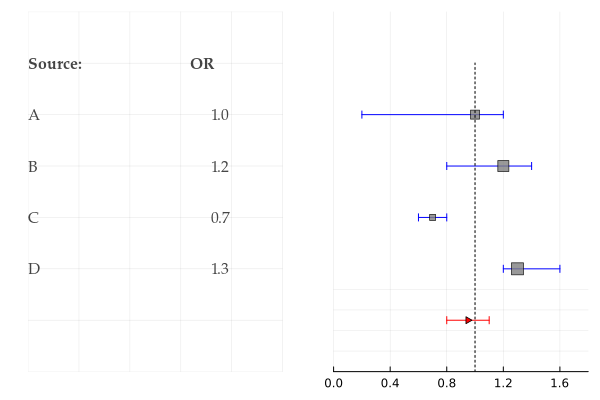
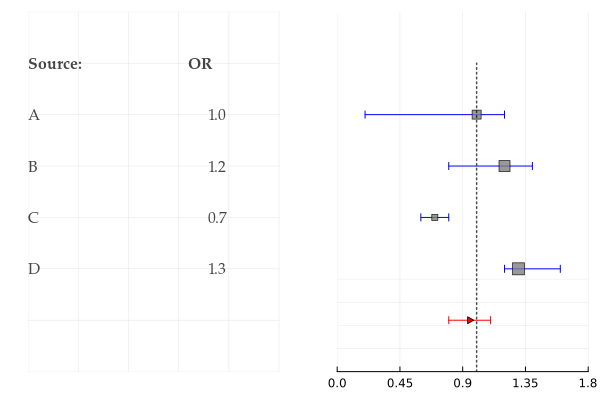
build based on 8a45551

diff --git a/dev/search_index.js b/dev/search_index.js
@@ -1,3 +1,3 @@
 var documenterSearchIndex = {"docs":
-[{"location":"","page":"Home","title":"Home","text":"CurrentModule = ForestPlot","category":"page"},{"location":"#ForestPlot","page":"Home","title":"ForestPlot","text":"","category":"section"},{"location":"","page":"Home","title":"Home","text":"Documentation for ForestPlot.","category":"page"},{"location":"","page":"Home","title":"Home","text":"ForestPlot is a simple package to draw forest plots for mata-analysis study.","category":"page"},{"location":"","page":"Home","title":"Home","text":"ENV[\"GKSwstype\"] = \"nul\"","category":"page"},{"location":"#Examples","page":"Home","title":"Examples","text":"","category":"section"},{"location":"","page":"Home","title":"Home","text":"using ForestPlot, Plots\n\np = forestplot([[0.2,1.2], [0.8,1.4], [0.6, 0.8], [1.2, 1.6]], \n    metric = [1.0, 1.2, 0.7, 1.3], source = [\"A\", \"B\", \"C\", \"D\"],\n    summary = Dict(:ci =>[0.8, 1.1], :est => 0.95, :markershape => :rtriangle), logscale = false)\n\npng(p, \"plot1.png\")","category":"page"},{"location":"","page":"Home","title":"Home","text":"(Image: )","category":"page"},{"location":"","page":"Home","title":"Home","text":"\np = forestplot([[0.2,1.2], [0.8,1.4], [0.6, 0.8], [1.2, 1.6], [0.3, 0.7], [1.2, 1.5], [1.2, 1.3]], \n    metric = [1.0, 1.2, 0.7, 1.3, 0.5, 1.2, 1.3], source = [\"A\", \"B\", \"C\", \"D\", \"E\", \"F\", \"G\"],\n    sourcelabel = \"Study:\", metriclabel = \"Estimate\", \n    summary= Dict(:ci => [0.75,1.15], :est => 0.9), \n    logscale = true, printci = true, title = [\"\" \"Title\"], size = (800, 400))\n\npng(p, \"plot2.png\")","category":"page"},{"location":"","page":"Home","title":"Home","text":"(Image: )","category":"page"},{"location":"","page":"Home","title":"Home","text":"\np = forestplot([[0.2,1.2], [0.8,1.4], [0.6, 0.8], [1.2, 1.6], [0.3, 0.7], [1.2, 1.5], [1.2, 1.3]], \n    metric = [1.0, 1.2, 0.7, 1.3, 0.5, 1.2, 1.3],\n    summary= Dict(:ci => [0.75,1.15], :est => 0.9), \n    logscale = true, title = \"Title\")\n\npng(p, \"plot3.png\")","category":"page"},{"location":"","page":"Home","title":"Home","text":"(Image: )","category":"page"},{"location":"","page":"Home","title":"Home","text":"\np = forestplot([[0.2,1.2], [0.8,1.4], [0.6, 0.8], [1.2, 1.6], [0.3, 0.7], [1.2, 1.5], [1.2, 1.3]], \n    metric = [1.0, 1.2, 0.7, 1.3, 0.5, 1.2, 1.3], source = [\"A\", \"B\", \"C\", \"D\", \"E\", \"F\", \"G\"],\n    cimszwts = [1.0, 2.0, 3.0, 2.5, 4.0, 4.0, 0.5],\n    sourcelabel = \"Study:\", metriclabel = \"Estimate\", \n    summary= Dict(:ci => [0.75,1.15], :est => 0.9), \n    logscale = false, title = [\"\" \"Title\"], size = (800, 400))\n\npng(p, \"plot4.png\")","category":"page"},{"location":"","page":"Home","title":"Home","text":"(Image: )","category":"page"},{"location":"","page":"Home","title":"Home","text":"","category":"page"},{"location":"","page":"Home","title":"Home","text":"Modules = [ForestPlot]","category":"page"},{"location":"#ForestPlot.forestplot-Tuple{Any}","page":"Home","title":"ForestPlot.forestplot","text":"forestplot(ci; sourcelabel = \"Source:\", metriclabel = \"OR\", cilabel = \"CI95%\", \nsource = nothing, metric = nothing, printci = false,\nsummary = nothing, logscale = true, cimsz = -1, cimszwts = nothing, size = (600, 400), kwargs...)\n\nBy default plot is logscaled.\n\nci - vector (iterable) of confidence intervals bounds;\nsource - vector of study names (String);\nmetric - vector of metric estimates;\nprintci - print confidence interval;\nsummary - print summary object (Dict);\nlogscale - if true CI will be transformed (exp function used);\ncimsz - CI marker size, -1 or any value < 0 - auto;\ncimszwts - CI marker size weights (if nothing - metric will be used);\nsize - size of plot;\nmetriclabel = \"OR\" - label for metrics values;\ncilabel = \"CI95%\"- label for intervals values \nps = 10 - font size in points;\n\nExample\n\nusing ForestPlot\n\nforestplot([[0.2,1.2], [0.8,1.4], [0.6, 0.8], [1.2, 1.6]], \nsourcelabel = \"Study:\", metriclabel = \"Estimate\",\nmetric = [1.0, 1.2, 0.7, 1.3], \nsource = [\"12345678901234567890\", \"B\", \"C\", \"D\"])\n\nSummary object\n\nSummary is a Dict() with keywords:\n\n:ci\n:est\n:vline (true/false or vlues for vertical lines)\n:markershape\n:markersize\n\nExample 1\n\nforestplot([[0.2,1.2], [0.8,1.4], [0.6, 0.8], [1.2, 1.6]], \nmetric = [1.0, 1.2, 0.7, 1.3], source = [\"A\", \"B\", \"C\", \"D\"],\nsummary = Dict(:ci =>[0.8, 1.1], :est => 0.95, :markershape => :rtriangle), logscale = false)\n\nExample 2\n\nforestplot([[0.2,1.2], [0.8,1.4], [0.6, 0.8], [1.2, 1.6], [0.3, 0.7], [1.2, 1.5], [1.2, 1.3]], \nmetric = [1.0, 1.2, 0.7, 1.3, 0.5, 1.2, 1.3], source = [\"A\", \"B\", \"C\", \"D\", \"E\", \"F\", \"G\"],\nsourcelabel = \"Study:\", metriclabel = \"Estimate\", \nsummary= Dict(:ci => [0.75,1.15], :est => 0.9), \nlogscale = true, printci = true, title = [\"\" \"Title\"], size = (800, 400))\n\n\n\n\n\n","category":"method"}]
+[{"location":"","page":"Home","title":"Home","text":"CurrentModule = ForestPlot","category":"page"},{"location":"#ForestPlot","page":"Home","title":"ForestPlot","text":"","category":"section"},{"location":"","page":"Home","title":"Home","text":"Documentation for ForestPlot.","category":"page"},{"location":"","page":"Home","title":"Home","text":"ForestPlot is a simple package to draw forest plots for mata-analysis study.","category":"page"},{"location":"","page":"Home","title":"Home","text":"ENV[\"GKSwstype\"] = \"nul\"","category":"page"},{"location":"#Examples","page":"Home","title":"Examples","text":"","category":"section"},{"location":"","page":"Home","title":"Home","text":"using ForestPlot, Plots\n\np = forestplot([[0.2,1.2], [0.8,1.4], [0.6, 0.8], [1.2, 1.6]], \n    metric = [1.0, 1.2, 0.7, 1.3], source = [\"A\", \"B\", \"C\", \"D\"],\n    summary = Dict(:ci =>[0.8, 1.1], :est => 0.95, :markershape => :rtriangle), logscale = false)\n\npng(p, \"plot1.png\")","category":"page"},{"location":"","page":"Home","title":"Home","text":"(Image: )","category":"page"},{"location":"","page":"Home","title":"Home","text":"\np = forestplot([[0.2,1.2], [0.8,1.4], [0.6, 0.8], [1.2, 1.6], [0.3, 0.7], [1.2, 1.5], [1.2, 1.3]], \n    metric = [1.0, 1.2, 0.7, 1.3, 0.5, 1.2, 1.3], source = [\"A\", \"B\", \"C\", \"D\", \"E\", \"F\", \"G\"],\n    sourcelabel = \"Study:\", metriclabel = \"Estimate\", \n    summary= Dict(:ci => [0.75,1.15], :est => 0.9), \n    logscale = true, printci = true, title = [\"\" \"Title\"], size = (800, 400))\n\npng(p, \"plot2.png\")","category":"page"},{"location":"","page":"Home","title":"Home","text":"(Image: )","category":"page"},{"location":"","page":"Home","title":"Home","text":"\np = forestplot([[0.2,1.2], [0.8,1.4], [0.6, 0.8], [1.2, 1.6], [0.3, 0.7], [1.2, 1.5], [1.2, 1.3]], \n    metric = [1.0, 1.2, 0.7, 1.3, 0.5, 1.2, 1.3],\n    summary= Dict(:ci => [0.75,1.15], :est => 0.9), \n    logscale = true, title = \"Title\")\n\npng(p, \"plot3.png\")","category":"page"},{"location":"","page":"Home","title":"Home","text":"(Image: )","category":"page"},{"location":"","page":"Home","title":"Home","text":"\np = forestplot([[0.2,1.2], [0.8,1.4], [0.6, 0.8], [1.2, 1.6], [0.3, 0.7], [1.2, 1.5], [1.2, 1.3]], \n    metric = [1.0, 1.2, 0.7, 1.3, 0.5, 1.2, 1.3], source = [\"A\", \"B\", \"C\", \"D\", \"E\", \"F\", \"G\"],\n    cimszwts = [1.0, 2.0, 3.0, 2.5, 4.0, 4.0, 0.5],\n    sourcelabel = \"Study:\", metriclabel = \"Estimate\", \n    summary= Dict(:ci => [0.75,1.15], :est => 0.9), \n    logscale = false, title = [\"\" \"Title\"], size = (800, 400))\n\npng(p, \"plot4.png\")","category":"page"},{"location":"","page":"Home","title":"Home","text":"(Image: )","category":"page"},{"location":"","page":"Home","title":"Home","text":"","category":"page"},{"location":"","page":"Home","title":"Home","text":"Modules = [ForestPlot]","category":"page"},{"location":"#ForestPlot.forestplot-Tuple{Any}","page":"Home","title":"ForestPlot.forestplot","text":"forestplot(ci; sourcelabel = \"Source:\", metriclabel = \"OR\", cilabel = \"CI95%\", \nsource = nothing, metric = nothing, printci = false,\nsummary = nothing, logscale = true, cimsz = -1, cimszwts = nothing, size = (600, 400), ticksn = 5, kwargs...)\n\nBy default plot is logscaled.\n\nci - vector (iterable) of confidence intervals bounds;\nsource - vector of study names (String);\nmetric - vector of metric estimates;\nprintci - print confidence interval;\nsummary - print summary object (Dict);\nlogscale - if true CI will be transformed (exp function used);\ncimsz - CI marker size, -1 or any value < 0 - auto;\ncimszwts - CI marker size weights (if nothing - metric will be used);\nsize - size of plot;\nticksn - number of ticks;\nmetriclabel = \"OR\" - label for metrics values;\ncilabel = \"CI95%\"- label for intervals values \nps = 10 - font size in points;\n\nExample\n\nusing ForestPlot\n\nforestplot([[0.2,1.2], [0.8,1.4], [0.6, 0.8], [1.2, 1.6]], \nsourcelabel = \"Study:\", metriclabel = \"Estimate\",\nmetric = [1.0, 1.2, 0.7, 1.3], \nsource = [\"12345678901234567890\", \"B\", \"C\", \"D\"])\n\nSummary object\n\nSummary is a Dict() with keywords:\n\n:ci\n:est\n:vline (true/false or vlues for vertical lines)\n:markershape\n:markersize\n\nExample 1\n\nforestplot([[0.2,1.2], [0.8,1.4], [0.6, 0.8], [1.2, 1.6]], \nmetric = [1.0, 1.2, 0.7, 1.3], source = [\"A\", \"B\", \"C\", \"D\"],\nsummary = Dict(:ci =>[0.8, 1.1], :est => 0.95, :markershape => :rtriangle), logscale = false)\n\nExample 2\n\nforestplot([[0.2,1.2], [0.8,1.4], [0.6, 0.8], [1.2, 1.6], [0.3, 0.7], [1.2, 1.5], [1.2, 1.3]], \nmetric = [1.0, 1.2, 0.7, 1.3, 0.5, 1.2, 1.3], source = [\"A\", \"B\", \"C\", \"D\", \"E\", \"F\", \"G\"],\nsourcelabel = \"Study:\", metriclabel = \"Estimate\", \nsummary= Dict(:ci => [0.75,1.15], :est => 0.9), \nlogscale = true, printci = true, title = [\"\" \"Title\"], size = (800, 400))\n\n\n\n\n\n","category":"method"}]
 }

diff --git a/dev/index.html b/dev/index.html
@@ -23,9 +23,9 @@ png(p, &quot;plot3.png&quot;)</code></pre><pre class="documenter-example-output"
     summary= Dict(:ci =&gt; [0.75,1.15], :est =&gt; 0.9),
     logscale = false, title = [&quot;&quot; &quot;Title&quot;], size = (800, 400))
 
-png(p, &quot;plot4.png&quot;)</code></pre><pre class="documenter-example-output"><code class="nohighlight hljs ansi">&quot;plot4.png&quot;</code></pre><p><img src="plot4.png" alt/></p><ul><li><a href="#ForestPlot.forestplot-Tuple{Any}"><code>ForestPlot.forestplot</code></a></li></ul><article class="docstring"><header><a class="docstring-article-toggle-button fa-solid fa-chevron-down" href="javascript:;" title="Collapse docstring"></a><a class="docstring-binding" id="ForestPlot.forestplot-Tuple{Any}" href="#ForestPlot.forestplot-Tuple{Any}"><code>ForestPlot.forestplot</code></a> — <span class="docstring-category">Method</span></header><section><div><pre><code class="language-julia hljs">forestplot(ci; sourcelabel = &quot;Source:&quot;, metriclabel = &quot;OR&quot;, cilabel = &quot;CI95%&quot;, 
+png(p, &quot;plot4.png&quot;)</code></pre><pre class="documenter-example-output"><code class="nohighlight hljs ansi">&quot;plot4.png&quot;</code></pre><p><img src="plot4.png" alt/></p><ul><li><a href="#ForestPlot.forestplot-Tuple{Any}"><code>ForestPlot.forestplot</code></a></li></ul><article class="docstring"><header><a class="docstring-article-toggle-button fa-solid fa-chevron-down" href="javascript:;" title="Collapse docstring"></a><a class="docstring-binding" id="ForestPlot.forestplot-Tuple{Any}" href="#ForestPlot.forestplot-Tuple{Any}"><code>ForestPlot.forestplot</code></a> — <span class="docstring-category">Method</span><span class="is-flex-grow-1 docstring-article-toggle-button" title="Collapse docstring"></span></header><section><div><pre><code class="language-julia hljs">forestplot(ci; sourcelabel = &quot;Source:&quot;, metriclabel = &quot;OR&quot;, cilabel = &quot;CI95%&quot;, 
 source = nothing, metric = nothing, printci = false,
-summary = nothing, logscale = true, cimsz = -1, cimszwts = nothing, size = (600, 400), kwargs...)</code></pre><p>By default plot is logscaled.</p><ul><li><code>ci</code> - vector (iterable) of confidence intervals bounds;</li><li><code>source</code> - vector of study names (String);</li><li><code>metric</code> - vector of metric estimates;</li><li><code>printci</code> - print confidence interval;</li><li><code>summary</code> - print summary object (Dict);</li><li><code>logscale</code> - if true CI will be transformed (<code>exp</code> function used);</li><li><code>cimsz</code> - CI marker size, <code>-1</code> or any value &lt; 0 - auto;</li><li><code>cimszwts</code> - CI marker size weights (if <code>nothing</code> - <code>metric</code> will be used);</li><li><code>size</code> - size of plot;</li><li>metriclabel = &quot;OR&quot; - label for metrics values;</li><li>cilabel = &quot;CI95%&quot;- label for intervals values </li><li>ps = 10 - font size in points;</li></ul><p><strong>Example</strong></p><pre><code class="nohighlight hljs">using ForestPlot
+summary = nothing, logscale = true, cimsz = -1, cimszwts = nothing, size = (600, 400), ticksn = 5, kwargs...)</code></pre><p>By default plot is logscaled.</p><ul><li><code>ci</code> - vector (iterable) of confidence intervals bounds;</li><li><code>source</code> - vector of study names (String);</li><li><code>metric</code> - vector of metric estimates;</li><li><code>printci</code> - print confidence interval;</li><li><code>summary</code> - print summary object (Dict);</li><li><code>logscale</code> - if true CI will be transformed (<code>exp</code> function used);</li><li><code>cimsz</code> - CI marker size, <code>-1</code> or any value &lt; 0 - auto;</li><li><code>cimszwts</code> - CI marker size weights (if <code>nothing</code> - <code>metric</code> will be used);</li><li><code>size</code> - size of plot;</li><li><code>ticksn</code> - number of ticks;</li><li>metriclabel = &quot;OR&quot; - label for metrics values;</li><li>cilabel = &quot;CI95%&quot;- label for intervals values </li><li>ps = 10 - font size in points;</li></ul><p><strong>Example</strong></p><pre><code class="nohighlight hljs">using ForestPlot
 
 forestplot([[0.2,1.2], [0.8,1.4], [0.6, 0.8], [1.2, 1.6]], 
 sourcelabel = &quot;Study:&quot;, metriclabel = &quot;Estimate&quot;,
@@ -36,4 +36,4 @@ summary = Dict(:ci =&gt;[0.8, 1.1], :est =&gt; 0.95, :markershape =&gt; :rtriang
 metric = [1.0, 1.2, 0.7, 1.3, 0.5, 1.2, 1.3], source = [&quot;A&quot;, &quot;B&quot;, &quot;C&quot;, &quot;D&quot;, &quot;E&quot;, &quot;F&quot;, &quot;G&quot;],
 sourcelabel = &quot;Study:&quot;, metriclabel = &quot;Estimate&quot;, 
 summary= Dict(:ci =&gt; [0.75,1.15], :est =&gt; 0.9), 
-logscale = true, printci = true, title = [&quot;&quot; &quot;Title&quot;], size = (800, 400))</code></pre></div><a class="docs-sourcelink" target="_blank" href="https://github.com/PharmCat/ForestPlot.jl/blob/b40d0e8870ba9e9aa393e3aba3806bbf10751c8e/src/ForestPlot.jl#L8-L68">source</a></section></article></article><nav class="docs-footer"><p class="footer-message">Powered by <a href="https://github.com/JuliaDocs/Documenter.jl">Documenter.jl</a> and the <a href="https://julialang.org/">Julia Programming Language</a>.</p></nav></div><div class="modal" id="documenter-settings"><div class="modal-background"></div><div class="modal-card"><header class="modal-card-head"><p class="modal-card-title">Settings</p><button class="delete"></button></header><section class="modal-card-body"><p><label class="label">Theme</label><div class="select"><select id="documenter-themepicker"><option value="auto">Automatic (OS)</option><option value="documenter-light">documenter-light</option><option value="documenter-dark">documenter-dark</option><option value="catppuccin-latte">catppuccin-latte</option><option value="catppuccin-frappe">catppuccin-frappe</option><option value="catppuccin-macchiato">catppuccin-macchiato</option><option value="catppuccin-mocha">catppuccin-mocha</option></select></div></p><hr/><p>This document was generated with <a href="https://github.com/JuliaDocs/Documenter.jl">Documenter.jl</a> version 1.5.0 on <span class="colophon-date" title="Tuesday 16 July 2024 20:03">Tuesday 16 July 2024</span>. Using Julia version 1.10.4.</p></section><footer class="modal-card-foot"></footer></div></div></div></body></html>
+logscale = true, printci = true, title = [&quot;&quot; &quot;Title&quot;], size = (800, 400))</code></pre></div><a class="docs-sourcelink" target="_blank" href="https://github.com/PharmCat/ForestPlot.jl/blob/8a4555168ebfd9ca8d511260c0952dca1f49f6af/src/ForestPlot.jl#L8-L69">source</a></section></article></article><nav class="docs-footer"><p class="footer-message">Powered by <a href="https://github.com/JuliaDocs/Documenter.jl">Documenter.jl</a> and the <a href="https://julialang.org/">Julia Programming Language</a>.</p></nav></div><div class="modal" id="documenter-settings"><div class="modal-background"></div><div class="modal-card"><header class="modal-card-head"><p class="modal-card-title">Settings</p><button class="delete"></button></header><section class="modal-card-body"><p><label class="label">Theme</label><div class="select"><select id="documenter-themepicker"><option value="auto">Automatic (OS)</option><option value="documenter-light">documenter-light</option><option value="documenter-dark">documenter-dark</option><option value="catppuccin-latte">catppuccin-latte</option><option value="catppuccin-frappe">catppuccin-frappe</option><option value="catppuccin-macchiato">catppuccin-macchiato</option><option value="catppuccin-mocha">catppuccin-mocha</option></select></div></p><hr/><p>This document was generated with <a href="https://github.com/JuliaDocs/Documenter.jl">Documenter.jl</a> version 1.6.0 on <span class="colophon-date" title="Tuesday 27 August 2024 19:15">Tuesday 27 August 2024</span>. Using Julia version 1.10.4.</p></section><footer class="modal-card-foot"></footer></div></div></div></body></html>

diff --git a/dev/assets/documenter.js b/dev/assets/documenter.js
@@ -77,30 +77,35 @@ require(['jquery'], function($) {
 let timer = 0;
 var isExpanded = true;
 
-$(document).on("click", ".docstring header", function () {
-  let articleToggleTitle = "Expand docstring";
+$(document).on(
+  "click",
+  ".docstring .docstring-article-toggle-button",
+  function () {
+    let articleToggleTitle = "Expand docstring";
+    const parent = $(this).parent();
 
-  debounce(() => {
-    if ($(this).siblings("section").is(":visible")) {
-      $(this)
-        .find(".docstring-article-toggle-button")
-        .removeClass("fa-chevron-down")
-        .addClass("fa-chevron-right");
-    } else {
-      $(this)
-        .find(".docstring-article-toggle-button")
-        .removeClass("fa-chevron-right")
-        .addClass("fa-chevron-down");
+    debounce(() => {
+      if (parent.siblings("section").is(":visible")) {
+        parent
+          .find("a.docstring-article-toggle-button")
+          .removeClass("fa-chevron-down")
+          .addClass("fa-chevron-right");
+      } else {
+        parent
+          .find("a.docstring-article-toggle-button")
+          .removeClass("fa-chevron-right")
+          .addClass("fa-chevron-down");
 
-      articleToggleTitle = "Collapse docstring";
-    }
+        articleToggleTitle = "Collapse docstring";
+      }
 
-    $(this)
-      .find(".docstring-article-toggle-button")
-      .prop("title", articleToggleTitle);
-    $(this).siblings("section").slideToggle();
-  });
-});
+      parent
+        .children(".docstring-article-toggle-button")
+        .prop("title", articleToggleTitle);
+      parent.siblings("section").slideToggle();
+    });
+  }
+);
 
 $(document).on("click", ".docs-article-toggle-button", function (event) {
   let articleToggleTitle = "Expand docstring";
@@ -110,7 +115,7 @@ $(document).on("click", ".docs-article-toggle-button", function (event) {
   debounce(() => {
     if (isExpanded) {
       $(this).removeClass("fa-chevron-up").addClass("fa-chevron-down");
-      $(".docstring-article-toggle-button")
+      $("a.docstring-article-toggle-button")
         .removeClass("fa-chevron-down")
         .addClass("fa-chevron-right");
 
@@ -119,7 +124,7 @@ $(document).on("click", ".docs-article-toggle-button", function (event) {
       $(".docstring section").slideUp(animationSpeed);
     } else {
       $(this).removeClass("fa-chevron-down").addClass("fa-chevron-up");
-      $(".docstring-article-toggle-button")
+      $("a.docstring-article-toggle-button")
         .removeClass("fa-chevron-right")
         .addClass("fa-chevron-down");
 
